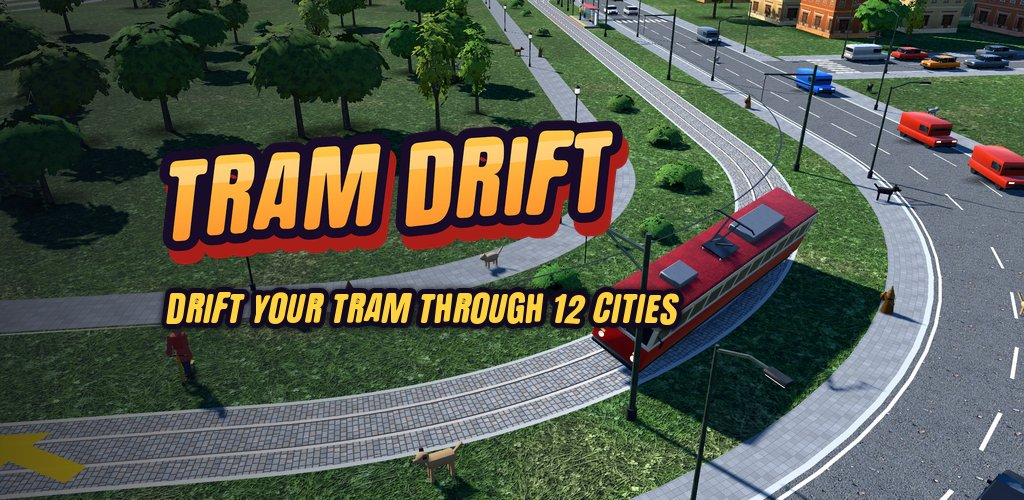
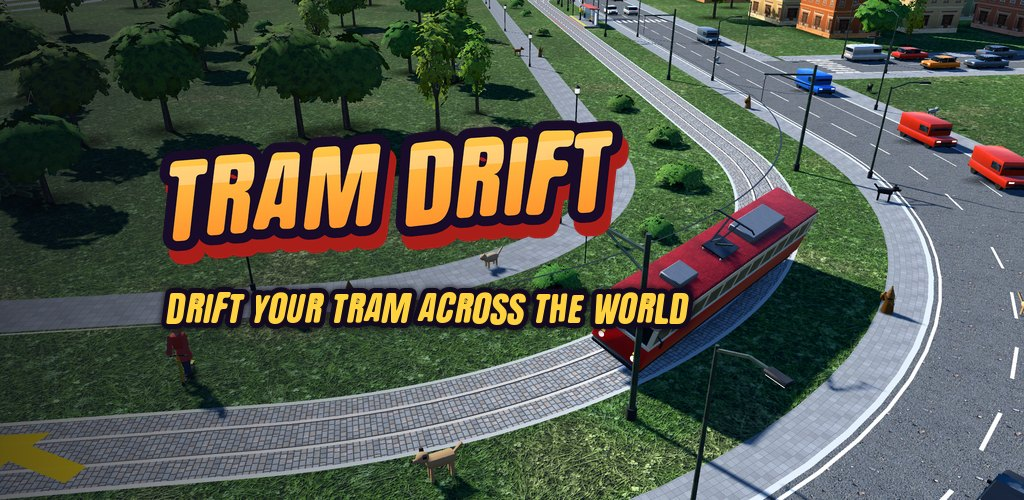
Tram Drift: opisy bez liczby miast (nowa grafika z hasłem DRIFT YOUR TRAM ACROSS THE WORLD)

Changed region(s): [[0.4062, 0.57, 0.6875, 0.66]]

diff --git a/tramdrift/index.html b/tramdrift/index.html
@@ -10,10 +10,10 @@
 <meta charset="utf-8">
 <meta name="viewport" content="width=device-width, initial-scale=1">
 <title>Tram Drift</title>
-<meta name="description" content="Tram Drift — flip the switch between the bogies and drift your tram through 12 cities. Carry passengers, chain combos, unlock trams. Free on Google Play.">
+<meta name="description" content="Tram Drift — flip the switch between the bogies and drift your tram around the world. Carry passengers, chain combos, unlock trams. Free on Google Play.">
 <meta property="og:type" content="website">
 <meta property="og:title" content="Tram Drift">
-<meta property="og:description" content="Drift your tram through 12 cities: carry passengers, chain combos, unlock trams.">
+<meta property="og:description" content="Drift your tram around the world: carry passengers, chain combos, unlock trams.">
 <meta property="og:image" content="https://ddmobile.pl/tramdrift/img/feature.jpg">
 <link rel="icon" href="img/icon-512.png">
 <link rel="stylesheet" href="../games.css">
@@ -31,7 +31,7 @@
       <img src="img/icon-512.png" alt="Tram Drift app icon">
       <div>
         <h1>Tram<span> Drift</span></h1>
-        <p>Drift a tram through 12 cities</p>
+        <p>Drift a tram around the world</p>
       </div>
     </div>
 
@@ -68,7 +68,7 @@
         <figcaption>London: a brick viaduct, a tunnel and Big Ben by the river.</figcaption>
       </figure>
       <figure>
-        <img src="img/map.jpg" width="1280" height="720" loading="lazy" alt="Route map with twelve city tiles connected by a track">
+        <img src="img/map.jpg" width="1280" height="720" loading="lazy" alt="Route map with city tiles connected by a track">
         <figcaption>Earn stars to open new cities on the route map.</figcaption>
       </figure>
       <figure>
@@ -85,7 +85,7 @@
         <span>Flip the switch between the bogies and slide across two tracks. Chain drifts for a combo up to ×3.</span></li>
       <li><strong>Pick up, drift, deliver</strong>
         <span>Stop at tram stops, park in the zone and take passengers on board — the fuller the tram, the bigger the payout.</span></li>
-      <li><strong>12 cities, 12 different routes</strong>
+      <li><strong>Cities, each with its own route</strong>
         <span>Wrocław, Szczecin, Kraków, Berlin, Prague, Budapest, Milan, Paris, London, Lisbon, San Francisco and Melbourne — each with its own landmark.</span></li>
       <li><strong>City traffic</strong>
         <span>Level crossings with stuck trucks, scooter riders cutting across, traffic lights at the figure-eight, steep hills.</span></li>

diff --git a/index.html b/index.html
@@ -209,7 +209,7 @@
           <img class="icon" src="tramdrift/img/icon-512.png" alt="">
           <div>
             <h2>Tram Drift</h2>
-            <p>Flip the switch between the bogies and drift your tram through 12 cities.</p>
+            <p>Flip the switch between the bogies and drift your tram around the world.</p>
             <div class="more">See the game →</div>
           </div>
         </div>
